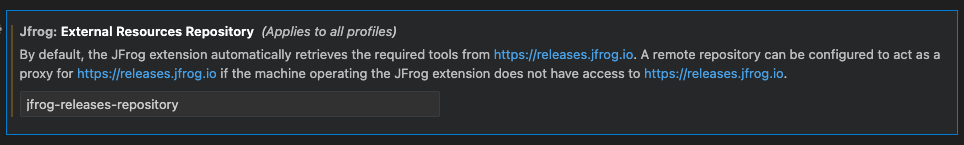
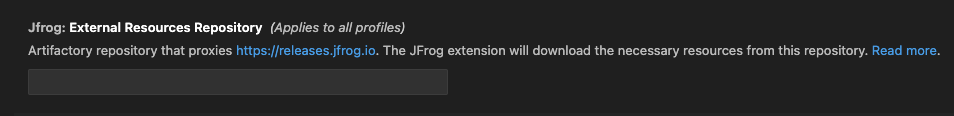
Update readme.md

Changed region(s): [[0.0, 0.181, 1.0, 0.8017], [0.0, 0.9052, 1.0, 0.931], [0.0, 0.0517, 1.0, 0.0776]]

diff --git a/README.md b/README.md
@@ -35,7 +35,7 @@
 - [Extension Settings](#extension-settings)
     - [Apply Xray Policies to your Projects](#apply-xray-policies-to-your-projects)
     - [Exclude Paths from Scan](#exclude-paths-from-scan)
-    - [External Resource Repository](#external-resource-repository)
+    - [Downloading External Resources Through Artifactory](#downloading-external-resources-through-artifactory)
     - [Proxy Configuration](#proxy-configuration)
     - [Proxy Authorization](#proxy-authorization)
         - [Basic authorization](#basic-authorization)
@@ -382,37 +382,23 @@ If however your policies are referenced through an Xray Watch or Watches, follow
 By default, paths containing the words `test`, `venv` and `node_modules` are excluded from Xray scan.
 The exclude pattern can be configured in the [Extension Settings](#extension-settings).
 
-### External Resource Repository
+### Downloading External Resources Through Artifactory
 
-By default, the JFrog extension downloads the necessary tools needed from https://releases.jfrog.io. If the machine that runs JFrog extension has no access to it, you can create a remote repository in Artifactory which proxy https://releases.jfrog.io and set the JFrog extension setting:
+JFrog VS Code extension required necessary resources for scanning vulnerabilities in your project.
+By default, the JFrog extension downloads the necessary resources needed from https://releases.jfrog.io.
+If the machine that runs JFrog extension has no access to it, follow these steps to allow the tools to be downloaded from an Artifactory instance, which the machine has access to:
 
+1. Login to the Artifactory UI, with a user who has admin credentials.
+
+2. Create a Remote Repository with the following properties set:
+    - Under the 'Basic' tab:
+        Package Type: Generic
+        URL: https://releases.jfrog.io
+    - Under the 'Advanced' tab:
+        Uncheck the 'Store Artifacts Locally' option
+3. Open JFrog VS Code extension settings and add the Repository Key you created in the External Resources Repository section:
 ![externalResourcesRepository](resources/readme/preview/externalResourcesRepository.png)
-
- or set the following enviable variable
-
-```
-JFROG_IDE_RELEASES_REPO=jfrog-releases-repository
-```
-
-
-To set up a remote repository that acts as a proxy for [https://releases.jfrog.io](https://releases.jfrog.io), follow these steps:
-
-1. Log in using credentials with administrative privileges.
-
-2. Create a Remote Repository:
-   - Navigate to the Remote Repository creation section.
-   - Configure the repository with the following properties:
-
-   Basic Configuration:
-   - Package Type: Generic
-   - Repository Key: jfrog-releases-repository
-   - URL: [https://releases.jfrog.io](https://releases.jfrog.io)
-
-   Advanced Configuration:
-   - Uncheck the 'Store Artifacts Locally' option.
-
-These settings will establish the remote repository as a proxy for the specified URL.
-Remember to set `jfrog-releases-repository` as the releases repository using either an environment variable or in the External Resource Repository within the extension settings.
+Or set the `JFROG_IDE_RELEASES_REPO` environment variable with the Repository Key you created.
 
 ### Proxy Configuration
 
